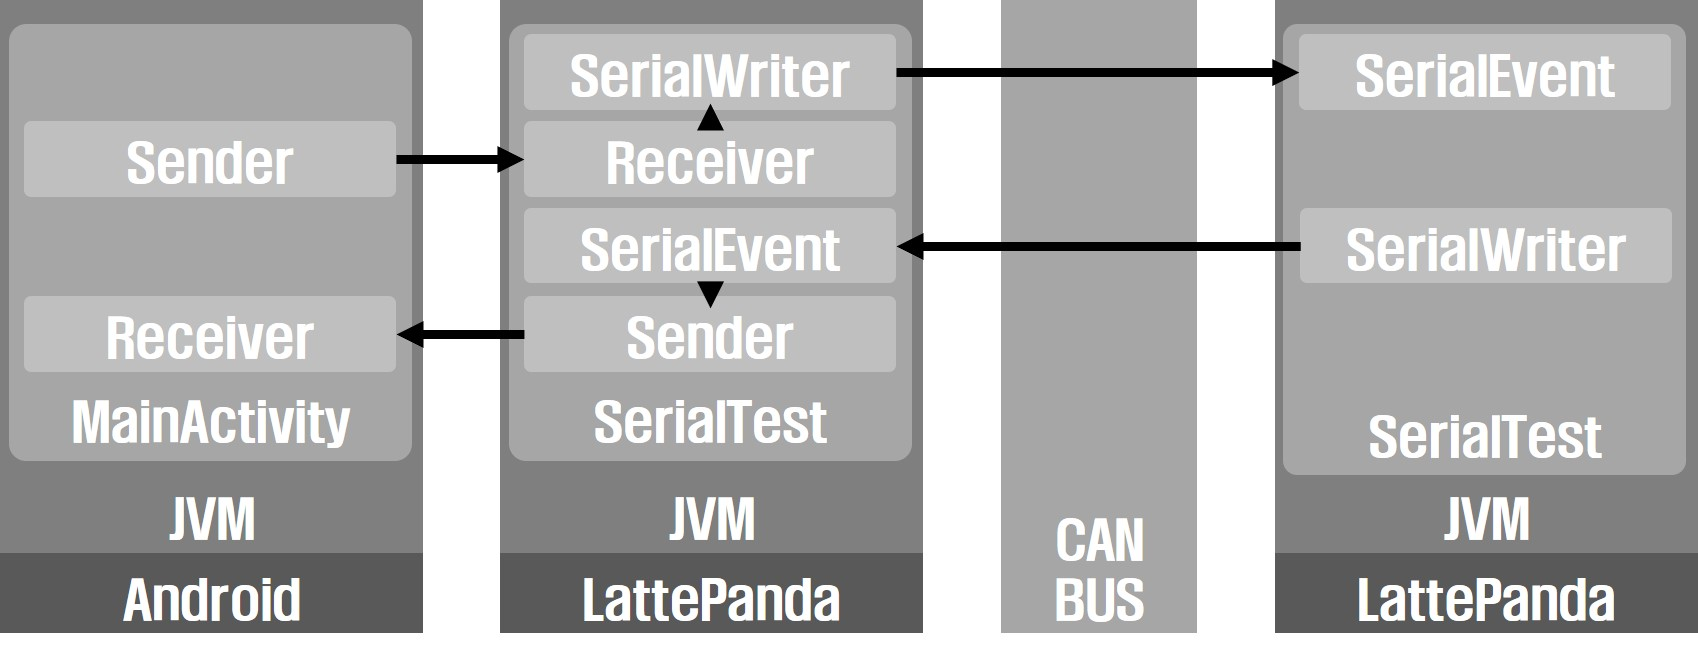
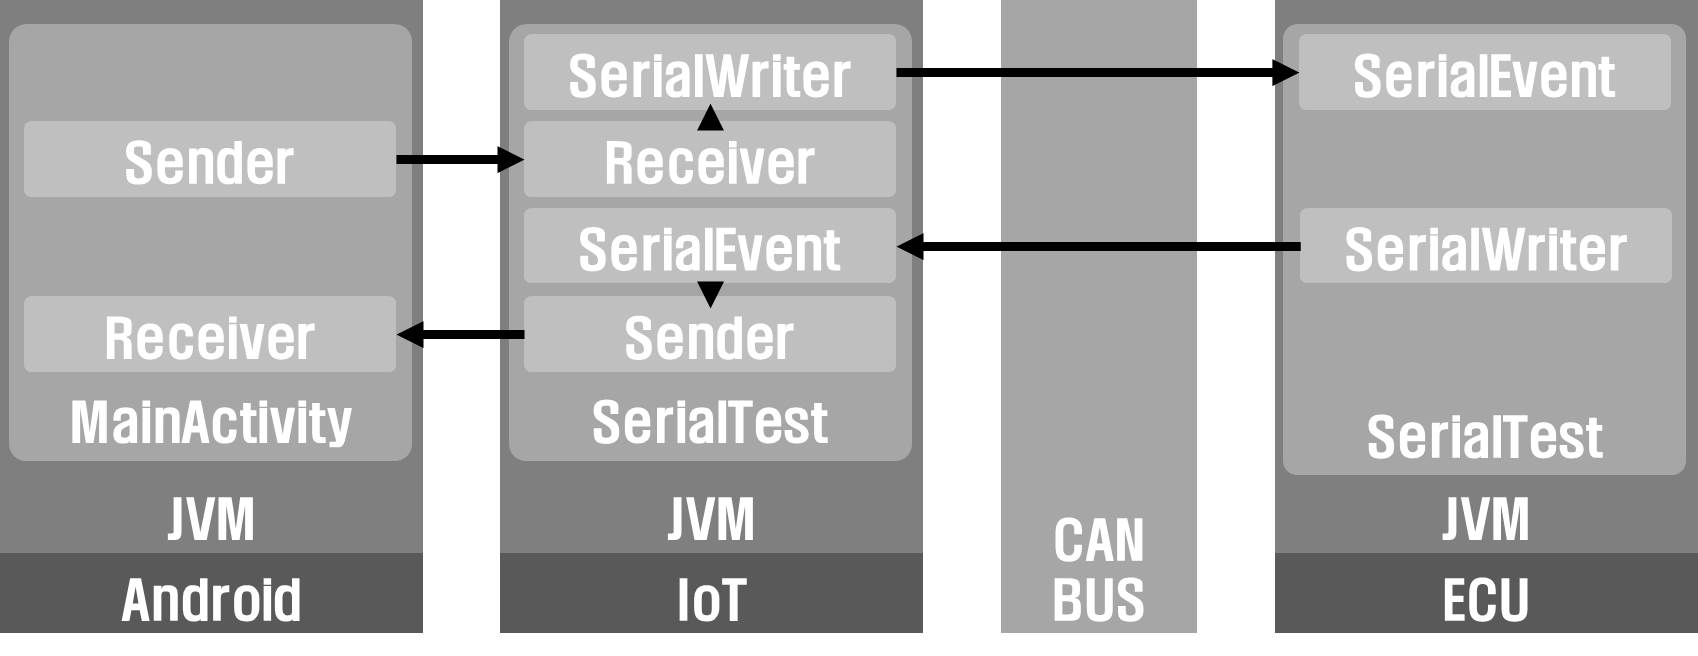
Modify README.md

diff --git a/README.md b/README.md
@@ -21,7 +21,7 @@
 
 
 
-- LattePanda : [can](/can)
+- IoT : [can](/can)
   - SerialTestS.java
     - SerialWriter
       - Send the data using can bus to IoT device
@@ -34,7 +34,7 @@
 
 
 
-- LattePanda : [CAN](/CAN)
+- ECU : [CAN](/CAN)
   - SerialTest.java
     - SerialWriter
       - Send the data using can bus to IoT device
